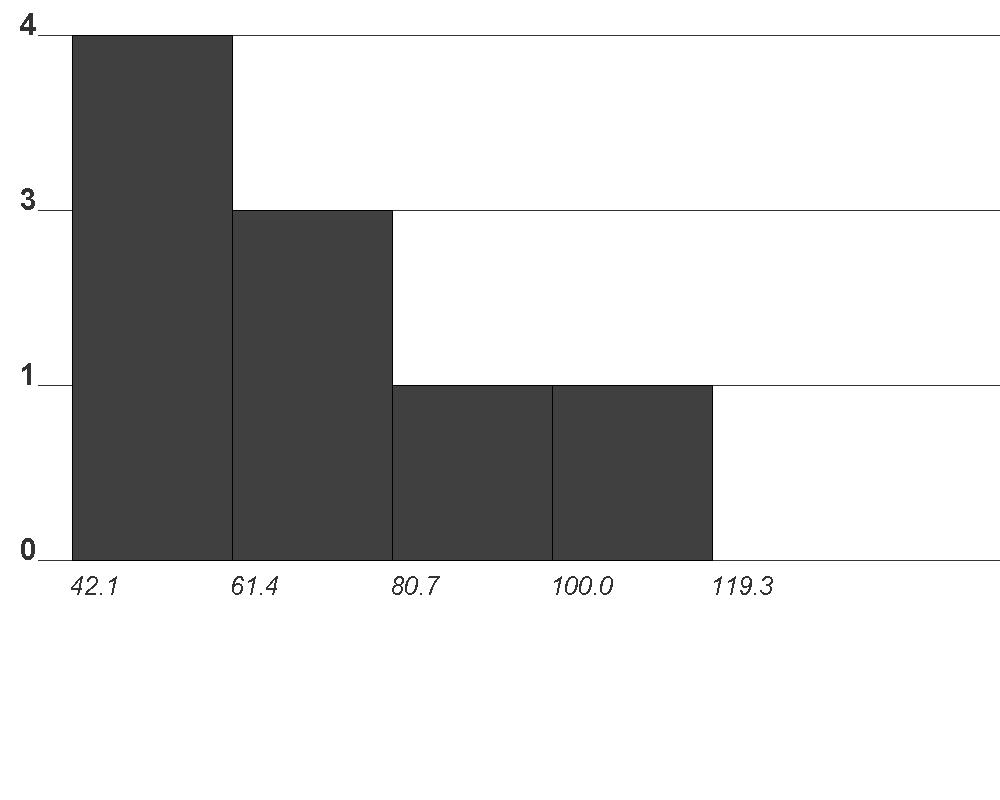
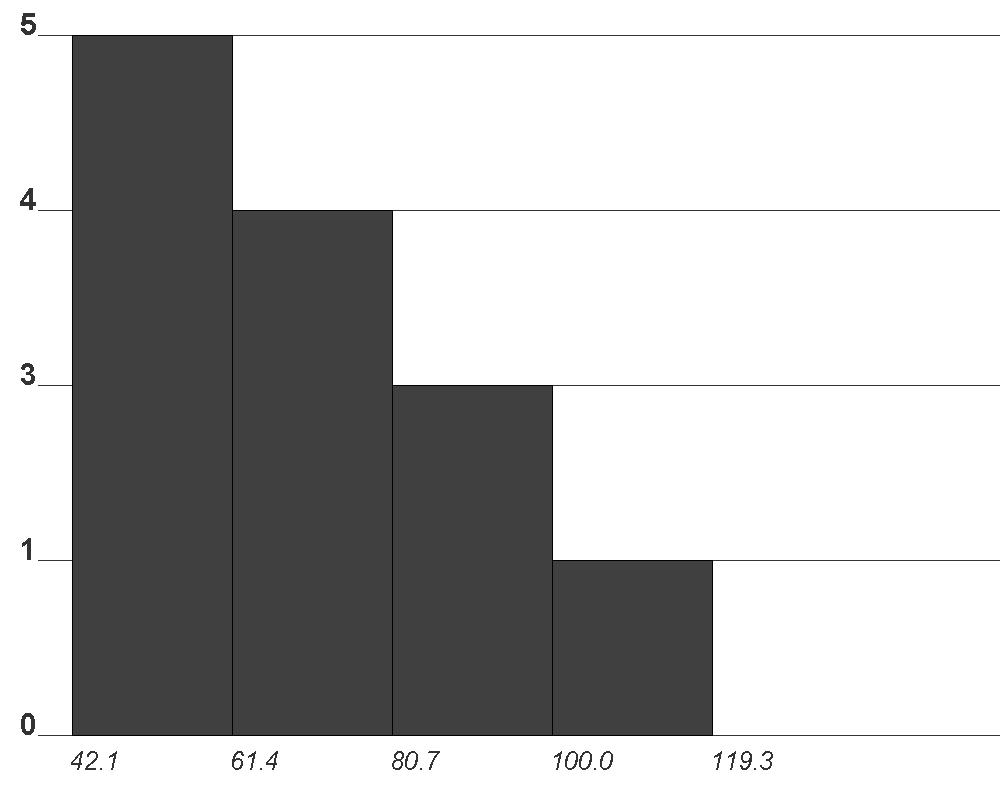
add method Grabbsa

Changed region(s): [[0.062, 0.4688, 0.775, 0.9688], [0.713, 0.9375, 0.775, 0.9688]]

diff --git a/src/main/java/com/example/rejectionapp/methods/NewGrabbs.java b/src/main/java/com/example/rejectionapp/methods/NewGrabbs.java
@@ -1,0 +1,103 @@
+package com.example.rejectionapp.methods;
+
+import lombok.Getter;
+import org.apache.commons.math3.stat.descriptive.moment.StandardDeviation;
+
+import java.util.ArrayList;
+import java.util.Arrays;
+import java.util.List;
+
+@Getter
+public class NewGrabbs extends Methods {
+
+    public NewGrabbs(double[] arr) {
+        this.arr = Arrays.stream(arr).sorted().toArray();
+    }
+
+    public void start() {
+        double alpha = 0.05;
+        double tmp = 0;
+        do {
+            grubbsTest(this.arr, alpha);
+            if (tmp == coefficientVariation) break;
+            tmp = coefficientVariation;
+        } while (coefficientVariation > 0.33);
+    }
+
+    // Метод для вычисления среднеквадратического отклонения
+    private void calculateStandardDeviation(double[] data, double mean) {
+        double sum = 0.0;
+        for (double value : data) {
+            sum += Math.pow(value - mean, 2);
+        }
+        standardDeviationValue = Math.sqrt(sum / (data.length - 1));
+    }
+
+    // Метод для вычисления среднего значения
+    private void calculateMean(double[] data) {
+        double sum = 0.0;
+        for (double value : data) {
+            sum += value;
+        }
+        averageValue = sum / data.length;
+    }
+
+    // Метод Граббса для выявления выбросов
+    private void grubbsTest(double[] data, double alpha) {
+        calculateMean(data);
+        calculateStandardDeviation(data, averageValue);
+        int n = data.length;
+        List<Integer> outlierIndexs = new ArrayList<Integer>();
+        double maxZ = 0.0;
+        int outlierIndex = -1;
+        double z = 0;
+        StandardDeviation stdDev = new StandardDeviation();
+        standardDeviationValue = stdDev.evaluate(data);
+
+        for (int i = 0; i < n; i++) {
+            z = Math.abs(data[i] - averageValue) / standardDeviationValue;
+            if (z > maxZ) {
+                maxZ = z;
+                outlierIndex = i;
+                outlierIndexs.add(outlierIndex);
+            }
+        }
+
+        if (maxZ > calculateCriticalValue(n, alpha)) {
+            this.arr = deleteValue(data, outlierIndexs);
+            calculateMean(data);
+            calculateStandardDeviation(data, averageValue);
+            standardDeviationValue = stdDev.evaluate(arr);
+            coefficientVariation = standardDeviationValue / ((Arrays.stream(arr).sum() / arr.length));
+        }
+        standardDeviationValue = stdDev.evaluate(arr);
+    }
+
+    // Вычисление критического значения для тестирования Граббса
+    private double calculateCriticalValue(int n, double alpha) {
+        // Критические значения могут быть получены из таблицы критических значений Граббса
+        // Для упрощения можно использовать заранее известные значения или формулу
+        // Можно использовать в качестве примера: Tn = (n - 1) / Math.sqrt(n) * Math.sqrt((1.96 * 1.96) / (n - 2 + 1.96 * 1.96));
+        ValueGkr valueGkr = new ValueGkr();
+        valueGkr.setGkr();
+
+        return valueGkr.getValue(n); // Пример: используем фиксированное значение для двухсторонней проверки на уровне значимости 0.05
+    }
+
+    private double[] deleteValue(double[] arr, List<Integer> indexRemove) {
+        List<Double> list = new ArrayList<>(Arrays.stream(arr).boxed().toList());
+        List<Double> resultList = new ArrayList<>();
+
+        for (int i = 0; i < list.size(); i++) {
+            if (!indexRemove.contains(i)) {
+                resultList.add(list.get(i));
+            }
+        }
+
+        double[] result = new double[resultList.size()];
+//        for (double i : arr) if (i != value) list.add(i);
+        for (int i = 0; i < resultList.size(); i++) result[i] = resultList.get(i);
+
+        return result;
+    }
+}

diff --git a/src/main/java/com/example/rejectionapp/methods/Grabs.java b/src/main/java/com/example/rejectionapp/methods/Grabs.java
@@ -1,22 +1,23 @@
 package com.example.rejectionapp.methods;
 
 import java.util.Arrays;
+import java.util.logging.Logger;
+import org.apache.commons.math3.stat.descriptive.moment.StandardDeviation;;
+
 
 public class Grabs extends Methods {
+    private final Logger logger = Logger.getLogger(Grabs.class.getName());
 
     @Override
     public void start(double... arr) {
         this.arr = arr;
-        coefficientVariation = selection();
+        double tmp = 0;
 
-
-        if (coefficientVariation > 0.33 && (g1 > gkr && g2 > gkr)) {
-            while (coefficientVariation > 0.33) {
-                coefficientVariation = selection();
-            }
-        }
-
-        clearingArray();
+        do {
+            coefficientVariation = selectionTest();
+            if (coefficientVariation == tmp) break;
+            tmp = coefficientVariation;
+        } while (coefficientVariation > 0.33);
     }
 
     private double selection() {
@@ -37,9 +38,38 @@ public class Grabs extends Methods {
         if (g1 > gkr) deleteValue(minNumber);
         if (g2 > gkr) deleteValue(maxNumber);
 
-        n = arr.length;
-        standardDeviationValue = standardDeviation();
         clearingArray();
+        n = arr.length;
+        averageValue = Arrays.stream(arr).sum() / n;
+        standardDeviationValue = standardDeviation();
         return standardDeviationValue / (Arrays.stream(arr).sum() / n);
+    }
+
+    private double selectionTest() {
+        int n = arr.length;
+        // п1 Выстраиваем все элементы выборки по возрастанию (от меньшего к большему)
+        this.arr = Arrays.stream(this.arr).sorted().toArray();
+
+        double maxNumber = Arrays.stream(arr).max().getAsDouble();
+        double minNumber = Arrays.stream(arr).min().getAsDouble();
+
+        averageValue = Arrays.stream(arr).sum() / n;
+
+        StandardDeviation standardDeviation = new StandardDeviation();
+        standardDeviationValue = standardDeviation.evaluate(this.arr);
+
+        g1 = Math.abs(averageValue - minNumber) / standardDeviationValue;
+        g2 = Math.abs(averageValue - maxNumber) / standardDeviationValue;
+
+        ValueGkr valueGkr = new ValueGkr();
+        valueGkr.setGkr();
+        gkr = valueGkr.getValue(n);
+
+        if (g1 > gkr) deleteValue(minNumber);
+        if (g2 > gkr) deleteValue(maxNumber);
+        clearingArray();
+        standardDeviationValue = standardDeviation.evaluate(this.arr);
+
+        return standardDeviationValue;
     }
 }

diff --git a/src/main/java/com/example/rejectionapp/methods/ValueGkr.java b/src/main/java/com/example/rejectionapp/methods/ValueGkr.java
@@ -6,40 +6,40 @@ public class ValueGkr {
 
     public void setGkr() {
         gKr.put(3, 1.155 );
-        gKr.put(4, 1.496 );
-        gKr.put(5, 1.764 );
-        gKr.put(6, 1.973 );
-        gKr.put(7, 2.139 );
-        gKr.put(8, 2.274 );
-        gKr.put(9, 2.387 );
-        gKr.put(10, 2.482 );
-        gKr.put(11, 2.564 );
-        gKr.put(12, 2.636 );
-        gKr.put(13, 2.699 );
-        gKr.put(14, 2.755 );
-        gKr.put(15, 2.806 );
-        gKr.put(16, 2.852 );
-        gKr.put(17, 2.894 );
-        gKr.put(18, 2.932 );
-        gKr.put(19, 2.968 );
-        gKr.put(20, 3.001 );
-        gKr.put(21, 3.031 );
-        gKr.put(22, 3.060 );
-        gKr.put(23, 3.087 );
-        gKr.put(24, 3.112 );
-        gKr.put(25, 3.135 );
-        gKr.put(26, 3.157 );
-        gKr.put(27, 3.178 );
-        gKr.put(28, 3.199 );
-        gKr.put(29, 3.218 );
-        gKr.put(30, 3.236 );
-        gKr.put(31, 3.253 );
-        gKr.put(32, 3.270 );
-        gKr.put(33, 3.286 );
-        gKr.put(34, 3.301 );
-        gKr.put(36, 3.330 );
-        gKr.put(38, 3.356 );
-        gKr.put(40, 3.381 );
+        gKr.put(4, 1.481 );
+        gKr.put(5, 1.715 );
+        gKr.put(6, 1.887 );
+        gKr.put(7, 2.020 );
+        gKr.put(8, 2.126 );
+        gKr.put(9, 2.215 );
+        gKr.put(10, 2.290 );
+        gKr.put(11, 2.355 );
+        gKr.put(12, 2.412 );
+        gKr.put(13, 2.462 );
+        gKr.put(14, 2.507 );
+        gKr.put(15, 2.549 );
+        gKr.put(16, 2.585 );
+        gKr.put(17, 2.620 );
+        gKr.put(18, 2.651 );
+        gKr.put(19, 2.681 );
+        gKr.put(20, 2.709 );
+        gKr.put(21, 2.733 );
+        gKr.put(22, 2.758 );
+        gKr.put(23, 2.781 );
+        gKr.put(24, 2.802 );
+        gKr.put(25, 2.822 );
+        gKr.put(26, 2.841 );
+        gKr.put(27, 2.859 );
+        gKr.put(28, 2.876 );
+        gKr.put(29, 2.893 );
+        gKr.put(30, 2.908 );
+        gKr.put(31, 2.924 );
+        gKr.put(32, 2.938 );
+        gKr.put(33, 2.952 );
+        gKr.put(34, 2.965 );
+        gKr.put(36, 2.991 );
+        gKr.put(38, 3.014 );
+        gKr.put(40, 3.036 );
     }
 
     public double getValue(int key) {

diff --git a/src/main/java/com/example/rejectionapp/methods/Selection.java b/src/main/java/com/example/rejectionapp/methods/Selection.java
@@ -17,9 +17,12 @@ public class Selection {
     public String[] start(String method, double... arr) {
         switch (method) {
             case "grabs":
-                Grabs methodGrabs = new Grabs();
-                methodGrabs.start(arr);
-                setData(methodGrabs);
+//                Grabs methodGrabs = new Grabs();
+//                methodGrabs.start(arr);
+//                setData(methodGrabs);
+                NewGrabbs grabs = new NewGrabbs(arr);
+                grabs.start();
+                setData(grabs);
                 break;
             case "sigm":
                 Sigm methodSigm = new Sigm();
@@ -50,9 +53,9 @@ public class Selection {
 
     private void setData(Methods methods) {
         this.arr = methods.getArr();
-        this.g1 = methods.getG1();
-        this.g2 = methods.getG2();
-        this.gkr = methods.getGkr();
+//        this.g1 = methods.getG1();
+//        this.g2 = methods.getG2();
+//        this.gkr = methods.getGkr();
         this.coefficientVariation = methods.getCoefficientVariation();
         this.averageValue = methods.getAverageValue();
         this.standardDeviationValue = methods.getStandardDeviationValue();

diff --git a/src/main/java/com/example/rejectionapp/ExelWork.java b/src/main/java/com/example/rejectionapp/ExelWork.java
@@ -51,8 +51,11 @@ public class ExelWork {
         XSSFSheet sheet = workbook.createSheet();
 
         Map<String, String> data = new TreeMap<>();
+        String tmp = "";
         for (int i = 0; i < arr.length; i++) {
-            data.put(String.valueOf(i), String.valueOf(arr[i]));
+            tmp = String.valueOf(arr[i]);
+            tmp = tmp.replace(".", ",");
+            data.put(String.valueOf(i), tmp);
         }
 
         Set<String> keyset = data.keySet();

diff --git a/src/main/java/com/example/rejectionapp/gistogreMethods/GraphValues.java b/src/main/java/com/example/rejectionapp/gistogreMethods/GraphValues.java
@@ -49,7 +49,7 @@ public class GraphValues {
         int end = lineX.size() - 1;
 
         // Интервалы
-        for (int  x1 = 1; x1 <= end - 1; x1++) {
+        for (int  x1 = 0; x1 <= end - 1; x1++) {
             for (double num : arr) {
                 if (num >= lineX.get(x1) && num <= lineX.get(x1 + 1)) {
                     coll++;

diff --git a/src/main/java/module-info.java b/src/main/java/module-info.java
@@ -27,4 +27,6 @@ module com.example.rejectionapp {
     opens com.example.rejectionapp.controllers to javafx.fxml;
     exports com.example.rejectionapp.gistogreMethods;
     opens com.example.rejectionapp.gistogreMethods to javafx.fxml;
+    exports com.example.rejectionapp.methods;
+    opens com.example.rejectionapp.methods to javafx.fxml;
 }

diff --git a/src/main/java/com/example/rejectionapp/methods/Sigm.java b/src/main/java/com/example/rejectionapp/methods/Sigm.java
@@ -32,6 +32,9 @@ public class Sigm extends Methods{
         }
 
         clearingArray();
+        n = arr.length;
+        averageValue = Arrays.stream(arr).sum() / n;
+        standardDeviationValue = standardDeviation();
         return standardDeviation() / ((Arrays.stream(arr).sum() / arr.length));
     }
 }

diff --git a/src/main/java/com/example/rejectionapp/gistogreMethods/GisPanel.java b/src/main/java/com/example/rejectionapp/gistogreMethods/GisPanel.java
@@ -65,7 +65,6 @@ public class GisPanel extends JPanel {
         int realY = 0;
         int value = 0;
         tmp = 72;
-        lineY.addLast(1);
         for (int x = 0; x < lineY.size(); x++) {
             g.setColor(DARK_GRAY);
             // Значение вхождения
